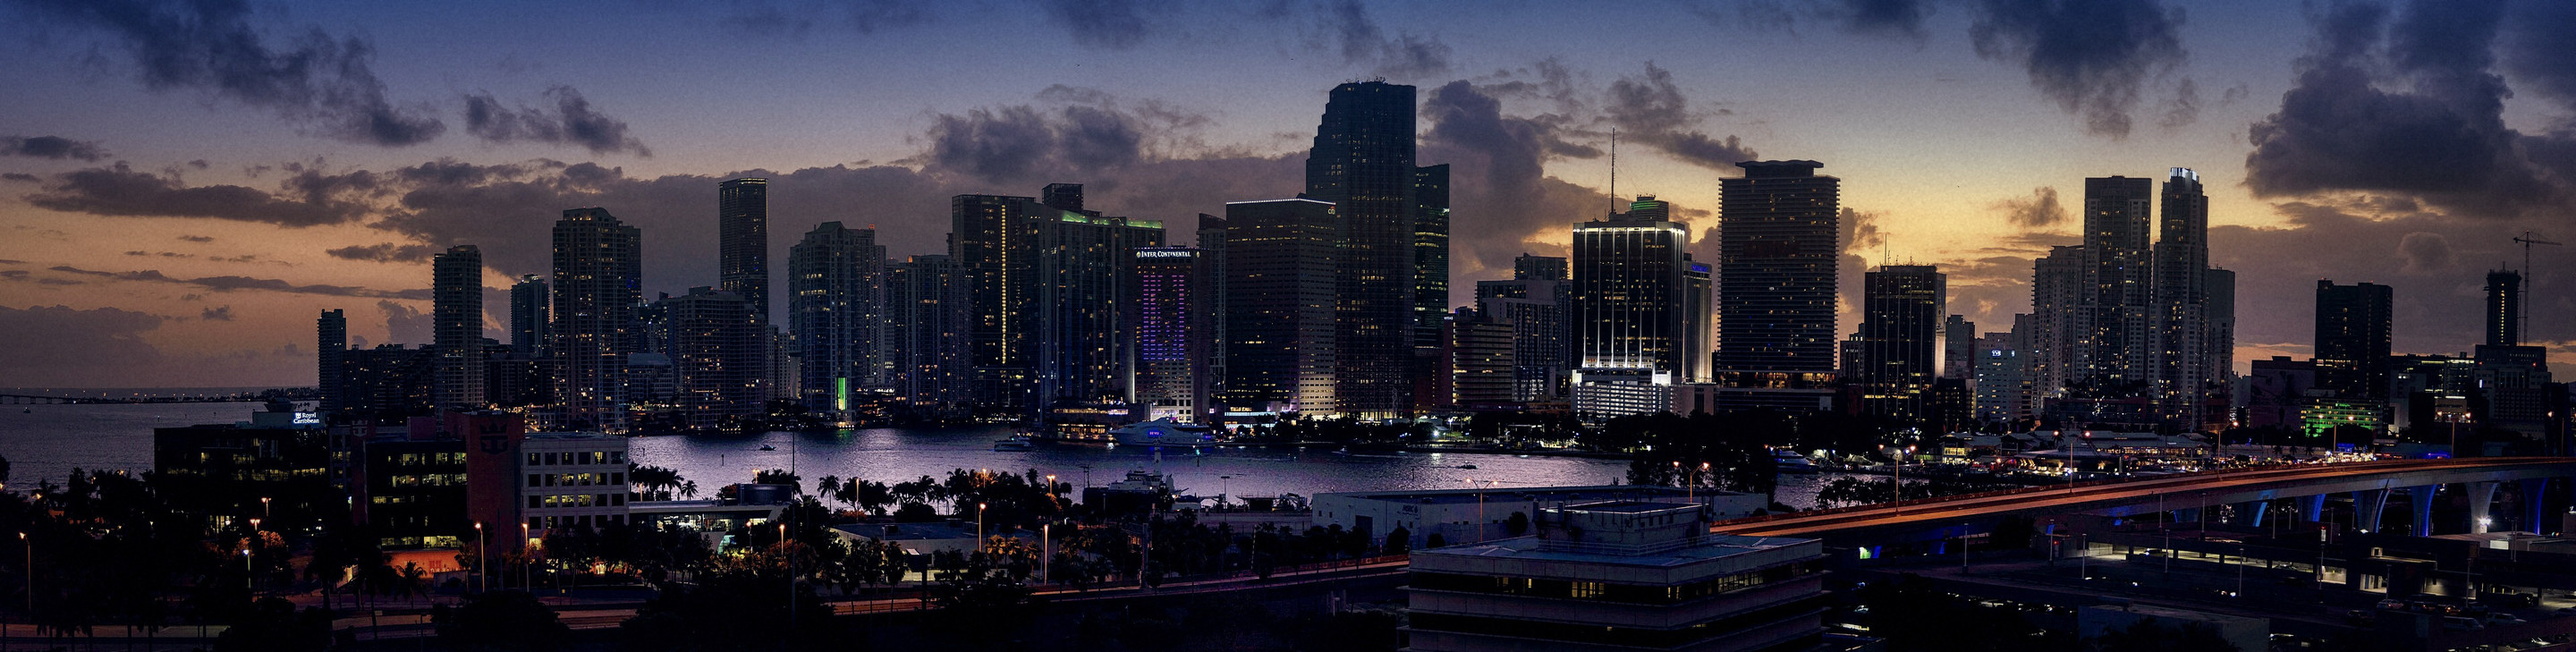
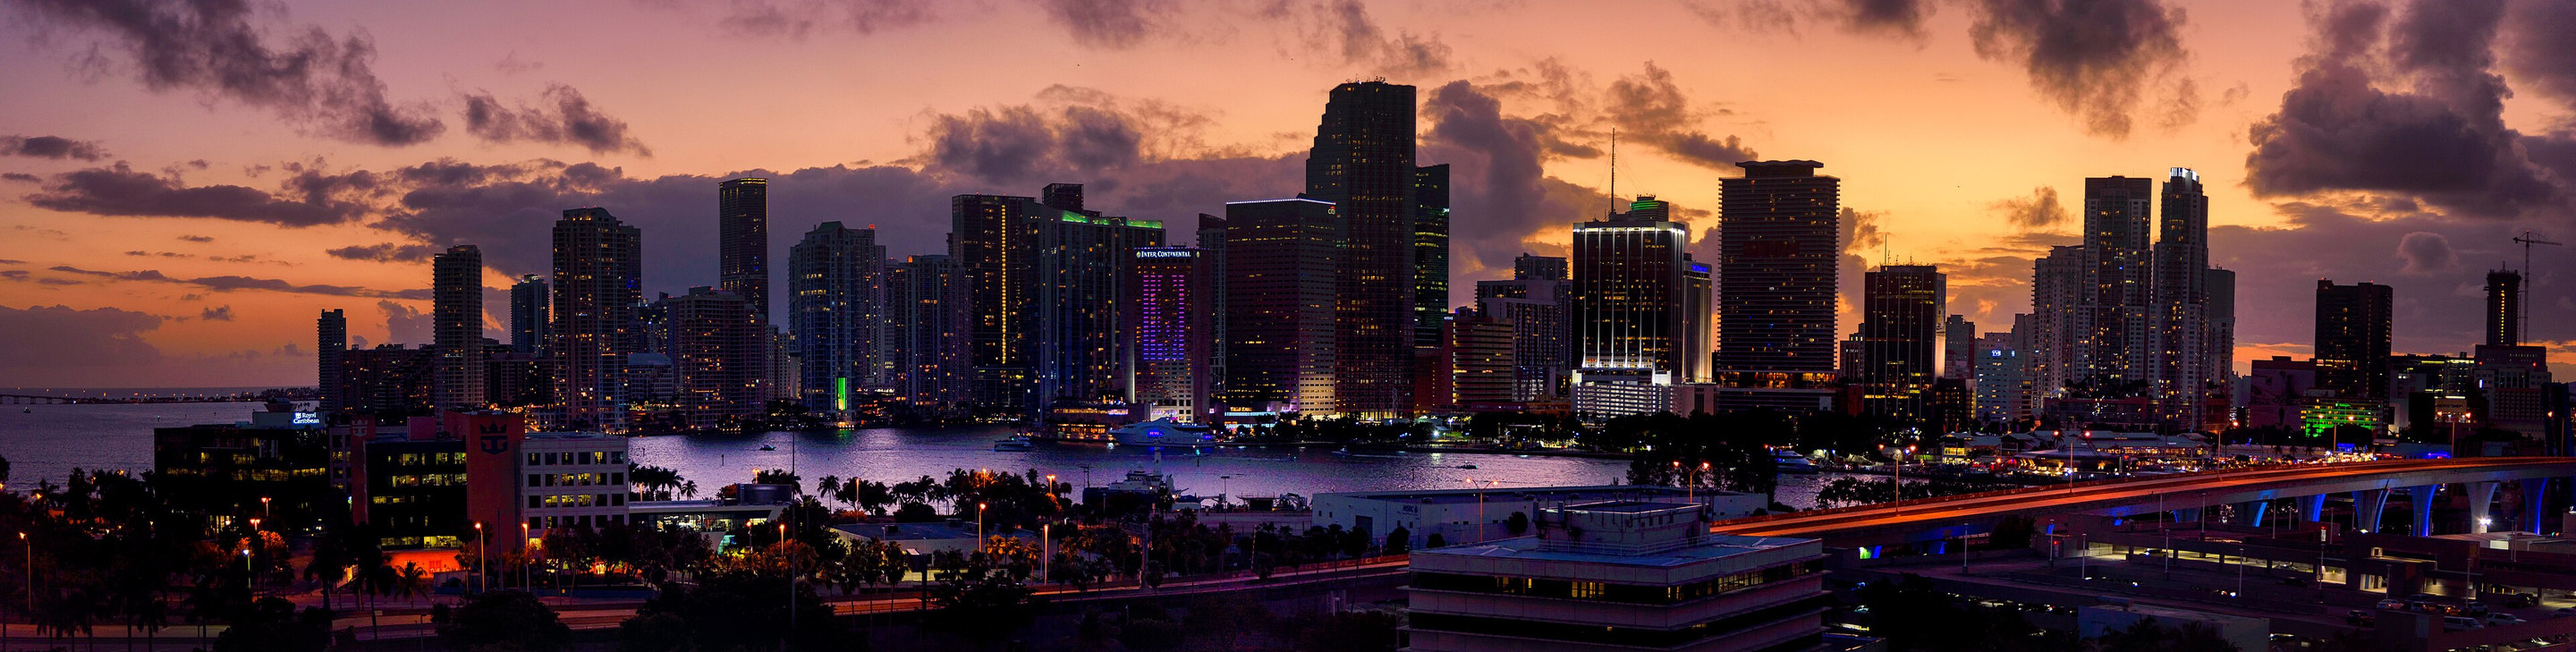
Doodle : photo Miami sans étalonnage
Remplace l’étalonnage « acier et or » par le fichier d’origine de
Joe deSousa (*Miami Skyline*, CC0 1.0), sans grain, vignette ni virage.
Coquilles SW : radar-shell-v1062, sports-shell-v439.

diff --git a/sports/sw.js b/sports/sw.js
@@ -22,7 +22,7 @@
 
 importScripts('../scripts/sports-document-refresh.js');
 
-const SHELL_CACHE  = 'sports-shell-v438';
+const SHELL_CACHE  = 'sports-shell-v439';
 const FONT_CACHE   = 'sports-fonts-v2';
 const CACHE_PREFIX = 'sports-';
 const KNOWN_CACHES = [SHELL_CACHE, FONT_CACHE];

diff --git a/sw.js b/sw.js
@@ -1,4 +1,4 @@
-const CACHE_NAME = "radar-shell-v1061";
+const CACHE_NAME = "radar-shell-v1062";
 const CACHE_PREFIX = "radar-";
 /** Cache permanent : page maintenance / hors-ligne (ne se purge pas au bump shell). */
 const OFFLINE_CACHE = "radar-offline-v23";

diff --git a/CHANGELOG.md b/CHANGELOG.md
@@ -7,7 +7,7 @@ et respecte le [versionnage sémantique](https://semver.org/lang/fr/).
 
 ### Ajouté
 
-- Doodle de fin novembre 2026 (mât) : titre LE-RADAR.ca en image Pricedown, photo Miami de Joe deSousa (CC0, étalonnage cinématographique acier et or), tirage aléatoire 1 sur 5 avant le premier affichage, interrupteurs `?doodle=on` et `?doodle=off`, fin le 30 novembre 2026 à 23 h 59 (heure de Montréal). Sur téléphone, l’icône officielle passe dans la pastille de la date. Le pied de page n’est pas modifié.
+- Doodle de fin novembre 2026 (mât) : titre LE-RADAR.ca en image Pricedown, photo Miami de Joe deSousa (CC0, sans étalonnage), tirage aléatoire 1 sur 5 avant le premier affichage, interrupteurs `?doodle=on` et `?doodle=off`, fin le 30 novembre 2026 à 23 h 59 (heure de Montréal). Sur téléphone, l’icône officielle passe dans la pastille de la date. Le pied de page n’est pas modifié.
 - Barre radio partagée `radio-barre.js` : un appel d’une ligne pose la barre (stations de `radios.json`, émission en cours, lecture et arrêt, volume au bureau, petit logo LE-RADAR). Pomodoro et Solitaire l’utilisent à la place de l’iframe `tuner-embed.html` ; les journaux du Kiosque l’appellent depuis le-radar.ca, donc un changement de station, de code ou de style leur arrive sans mise à jour. Sans réponse de LE-RADAR, la barre ne s’affiche pas. Pomodoro et Solitaire ont `media-src https:` pour les flux.
 - Compteur anonyme du bandeau sportif, éteint. Un clic n’envoie rien. La page Mise à jour n’a que la ligne Socle. Le script Umami déjà en place n’est pas retiré.
 - Poids du bandeau, éteint. À heure égale et dans le même seau, une moyenne de clics ne départage que si l’interrupteur, quatre à huit semaines et un seuil fourni sont réunis. Sinon l’ordre reste celui du jour. La phrase de politique n’est pas publiée.

diff --git a/THIRD_PARTY.md b/THIRD_PARTY.md
@@ -19,7 +19,7 @@ Les autres icônes du pied (X, Bluesky, Facebook, Tumblr, Mastodon, RSS, Buy Me 
 - Source : [Wikimedia Commons](https://commons.wikimedia.org/wiki/File:Miami_Skyline_(45860413504).jpg)
 - Origine Flickr : https://www.flickr.com/photos/mustangjoe/45860413504/
 - Licence : **CC0 1.0** (Creative Commons Zero, dédicace au domaine public), confirmée sur la page Wikimedia et par FlickreviewR 2 (16 mars 2019, licence cc-zero sur Flickr). Compatible avec une distribution GPL-2.0-only. Aucune dépendance Apache-2.0.
-- Traitement : étalonnage cinématographique « acier et or » (ciel d’acier, bande dorée à l’horizon, ombres teal, lumières ambre, voile, contrastes profonds, grain fin) réalisé pour le doodle, à la place d’un premier étalonnage vaporwave. La licence CC0 permet l’adaptation.
+- Traitement : aucun étalonnage. La photographie est utilisée telle que publiée (pas de grain, de vignette ni de virage ajoutés).
 - Crédit affiché sur le mât : « Joe deSousa — Miami » (conservé par cohérence avec les autres photos, même s’il n’est pas exigé par le CC0).
 
 Le titre Pricedown du doodle (`assets/doodle/le-radar-pricedown.svg`) est une image vectorielle fixe, sans fichier de police ni glyphe redistribués. Voir `assets/doodle/README.md`.
